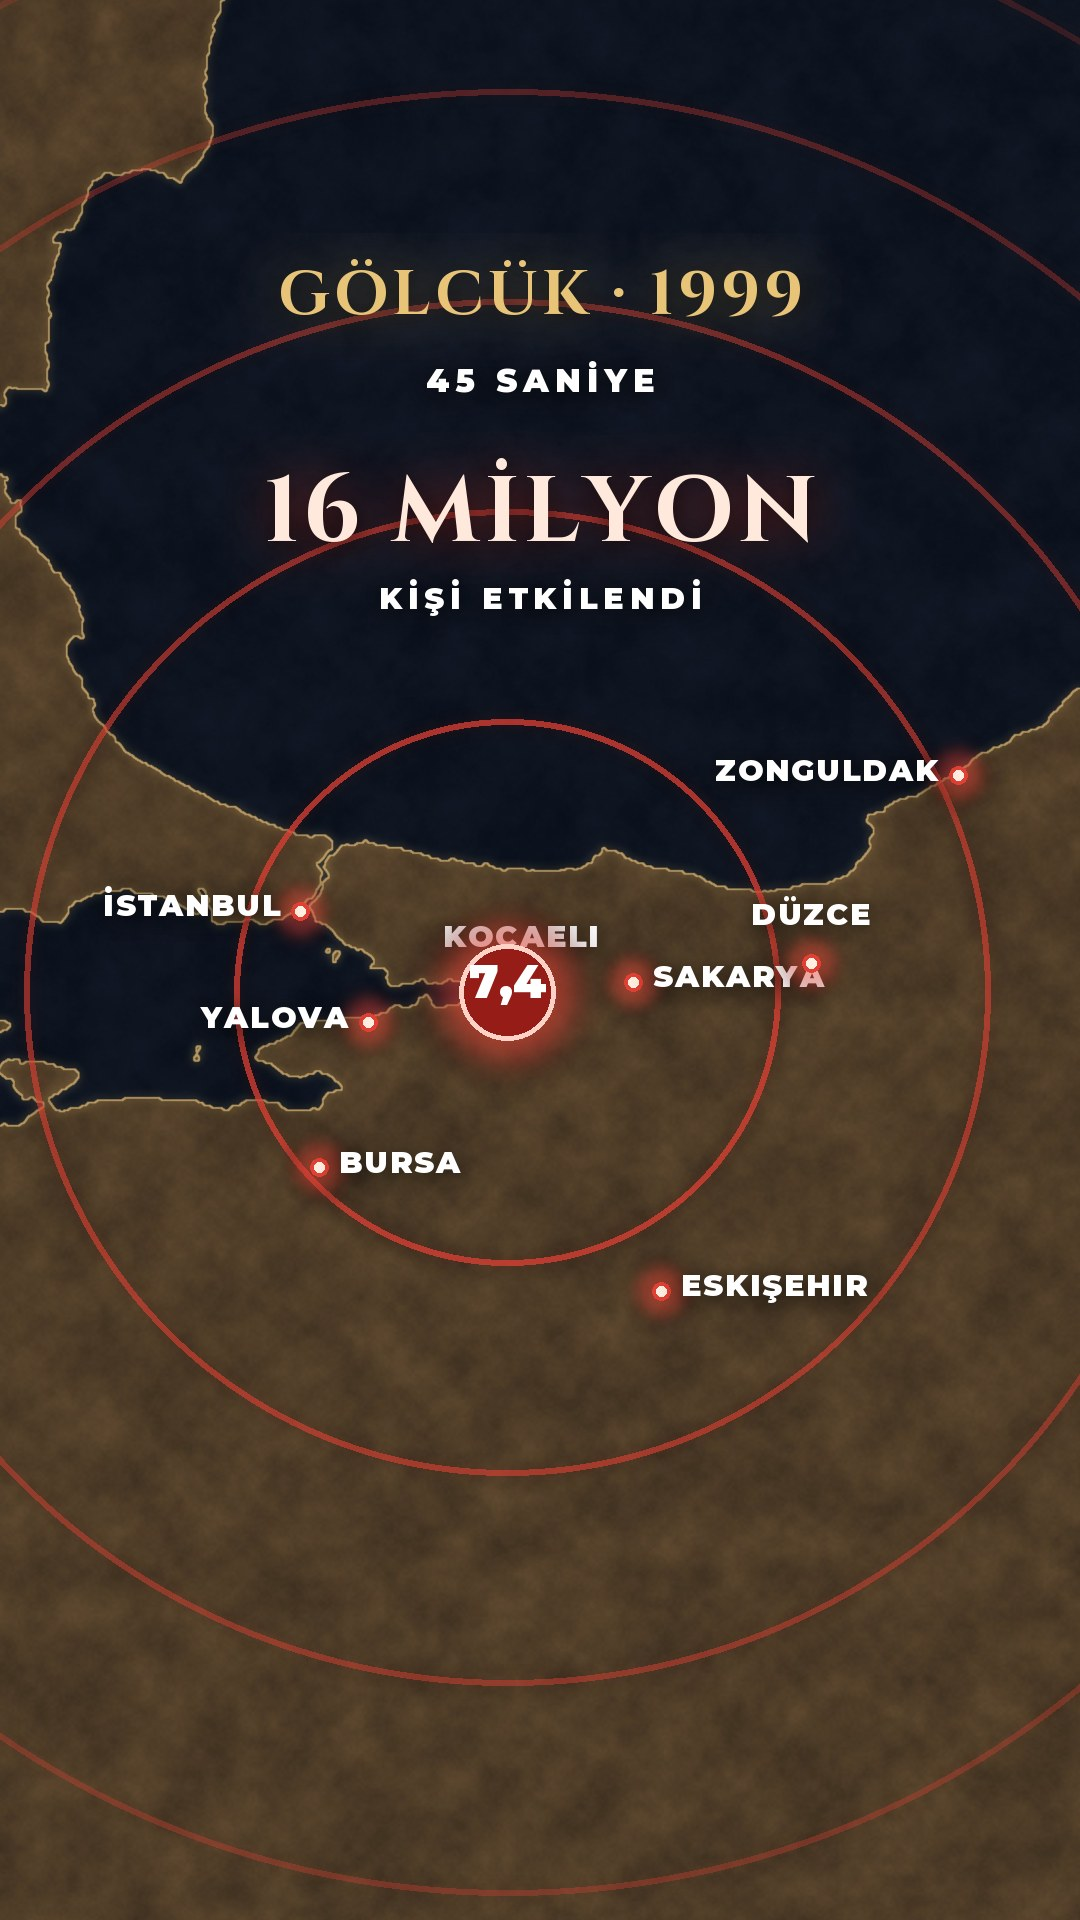
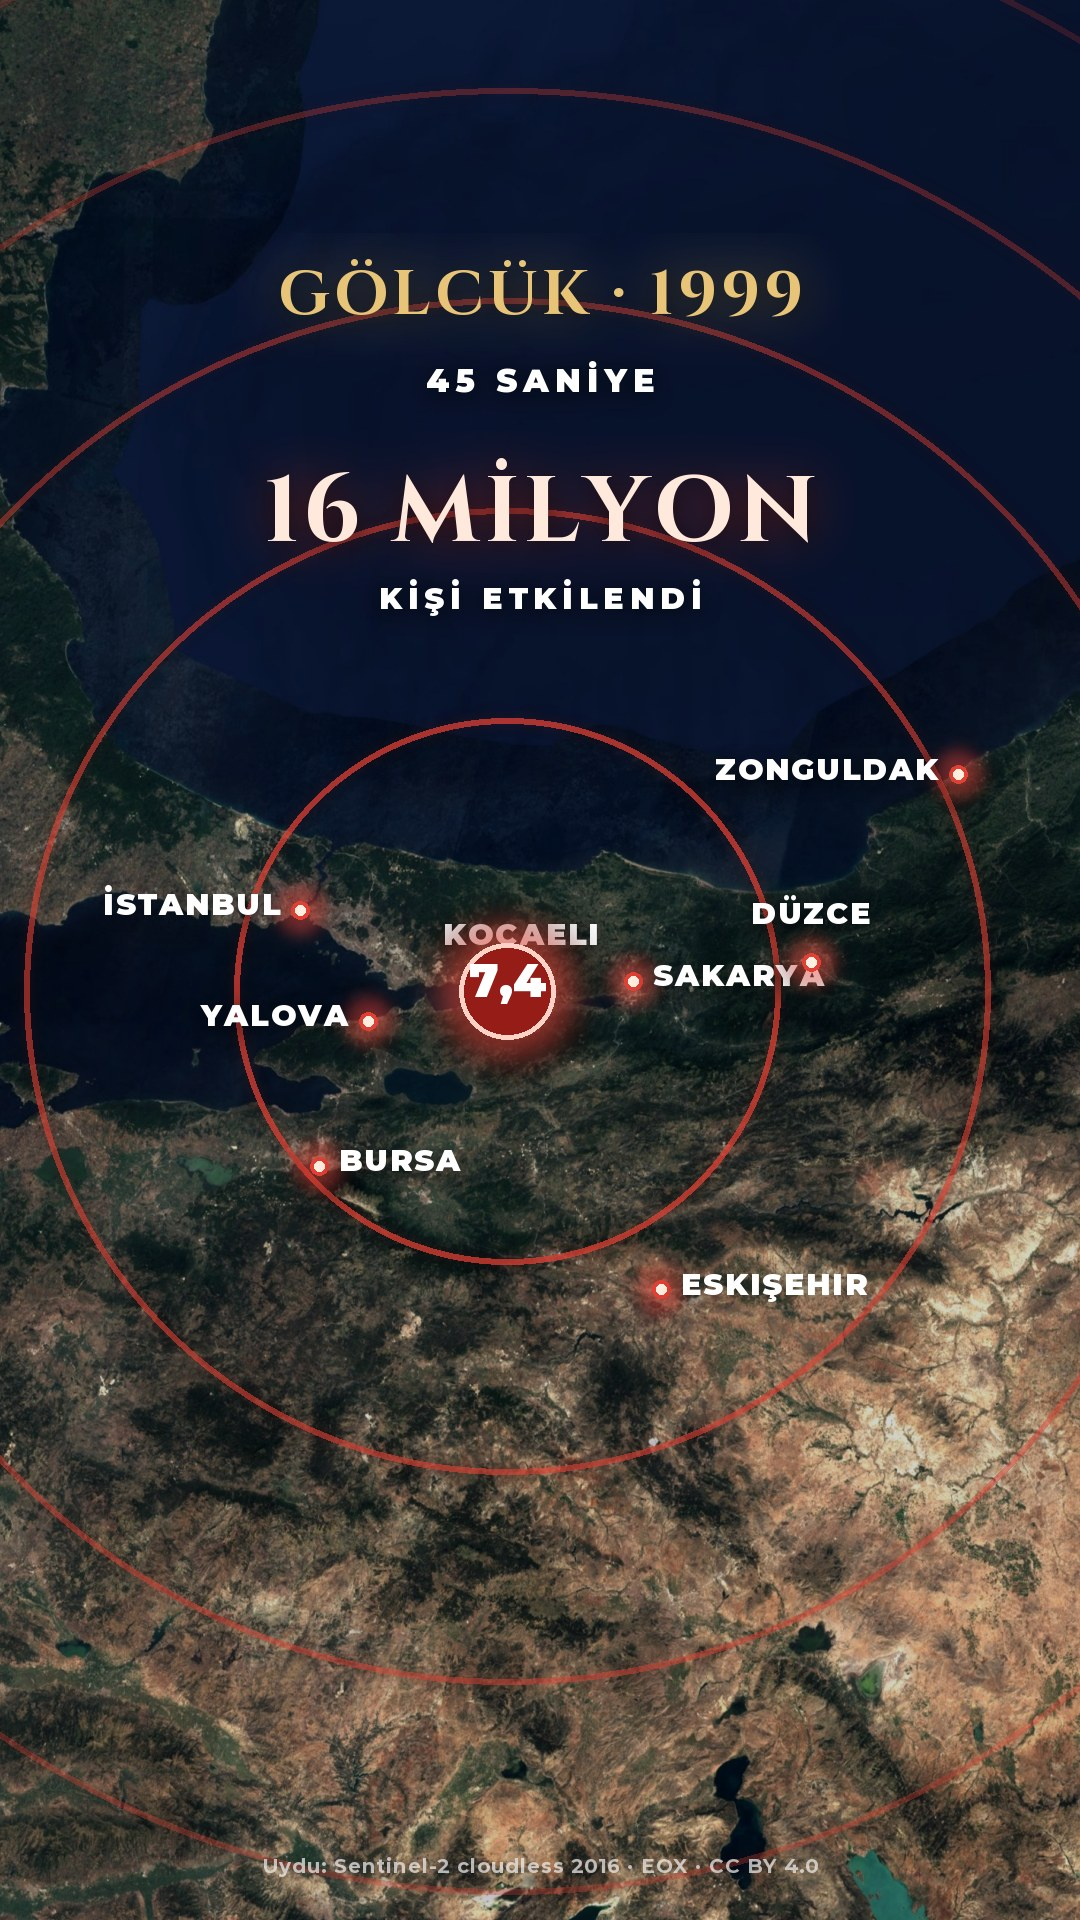
Deprem haritaları uydu altlığıyla (Sentinel-2 cloudless 2016, İstanbul için yüksek çözünürlük), atıf satırı
Claude-Session: https://claude.ai/code/session_01PhuuS3b2NQYC7FvgNf5iHz

diff --git a/engine/deprem.py b/engine/deprem.py
@@ -33,24 +33,48 @@ def yuzde(v): return f"{v:.1f}".replace(".", ",")
 
 
 class Harita:
-    _base = None
+    """Altlık: varsa uydu (Sentinel-2 cloudless 2016 + yakın plan için yüksek çözünürlüklü İstanbul), yoksa çizim altlık."""
+    _cache = {}
+    ATIF = "Uydu: Sentinel-2 cloudless 2016 · EOX · CC BY 4.0"
 
-    def __init__(self):
-        self.R = json.load(open(os.path.join(MAPDIR, "regions.json")))["marmara"]
-        if Harita._base is None: Harita._base = Image.open(os.path.join(MAPDIR, "basemap_marmara.jpg")).convert("RGB")
-        self.base = Harita._base; self.C = math.cos(math.radians(self.R["clat"]))
+    def __init__(self, stil="uydu"):
+        R = json.load(open(os.path.join(MAPDIR, "regions.json")))["marmara"]
+        self.C = math.cos(math.radians(R["clat"])); self.katman = []
+        uj = os.path.join(MAPDIR, "uydu.json")
+        if stil == "uydu" and os.path.exists(uj):
+            for ad, (lon0, lon1, lat0, lat1, k) in json.load(open(uj))["bolgeler"].items():
+                self.katman.append((self._yukle(f"uydu_{ad}.jpg", True), (lon0, lon1, lat0, lat1)))
+            self.katman.sort(key=lambda k: (k[1][1] - k[1][0]))  # en dar (en net) önce
+            self.uydu = True
+        else:
+            Rr = R; Wb = (Rr["lon1"] - Rr["lon0"]) * Rr["k"] * self.C
+            self.katman.append((self._yukle("basemap_marmara.jpg", False), (Rr["lon0"], Rr["lon1"], Rr["lat0"], Rr["lat1"])))
+            self.uydu = False
 
-    def P(self, lon, lat): return ((lon - self.R["lon0"]) * self.R["k"] * self.C, (self.R["lat1"] - lat) * self.R["k"])
+    def _yukle(self, ad, uydu):
+        if ad not in Harita._cache:
+            im = Image.open(os.path.join(MAPDIR, ad)).convert("RGB")
+            if uydu:  # videonun karanlık, sinematik tonuna uydur: biraz koyu, hafif soğuk gölgeler, az doygun
+                a = np.asarray(im).astype(np.float32) / 255.
+                lum = a @ np.array([.299, .587, .114], np.float32)
+                a = lum[..., None] + (a - lum[..., None]) * .85
+                a = np.clip((a - .04) * 1.12, 0, 1) ** 1.12 * .82
+                a[..., 2] = a[..., 2] * 1.04 + .015
+                im = Image.fromarray((np.clip(a, 0, 1) * 255).astype(np.uint8))
+            Harita._cache[ad] = im
+        return Harita._cache[ad]
 
     def kare(self, cam):
-        lon, lat, wdeg = cam; cw = wdeg * self.R["k"] * self.C; ch = cw * H / W
-        if ch > self.base.height: ch = self.base.height; cw = ch * W / H
-        if cw > self.base.width: cw = self.base.width; ch = cw * H / W
-        cx, cy = self.P(lon, lat)
-        x0 = min(max(cx - cw / 2, 0), self.base.width - cw); y0 = min(max(cy - ch / 2, 0), self.base.height - ch)
-        fr = self.base.resize((W, H), Image.BILINEAR, box=(x0, y0, x0 + cw, y0 + ch)).convert("RGBA"); s = W / cw
-        def to(lon, lat):
-            X, Y = self.P(lon, lat); return ((X - x0) * s, (Y - y0) * s)
+        lon, lat, wdeg = cam; hdeg = wdeg * H / W * self.C  # ekrandaki enlem aralığı
+        b = (lon - wdeg / 2, lon + wdeg / 2, lat - hdeg / 2, lat + hdeg / 2)
+        img, (L0, L1, A0, A1) = next(((i, bb) for i, bb in self.katman if bb[0] <= b[0] and b[1] <= bb[1] and bb[2] <= b[2] and b[3] <= bb[3]), self.katman[-1])
+        sx, sy = img.width / (L1 - L0), img.height / (A1 - A0)
+        x0, x1 = (b[0] - L0) * sx, (b[1] - L0) * sx; y0, y1 = (A1 - b[3]) * sy, (A1 - b[2]) * sy
+        dx = min(0, x0) or max(0, x1 - img.width); dy = min(0, y0) or max(0, y1 - img.height)
+        x0, x1, y0, y1 = x0 - dx, x1 - dx, y0 - dy, y1 - dy
+        fr = img.resize((W, H), Image.BILINEAR, box=(max(0, x0), max(0, y0), min(img.width, x1), min(img.height, y1))).convert("RGBA")
+        lonL = L0 + x0 / sx; latT = A1 - y0 / sy; s = W / (x1 - x0)
+        def to(lo, la): return ((lo - lonL) * sx * s, (latT - la) * sy * s)
         return fr, to, s
 
 
@@ -97,10 +121,13 @@ def baslik(fr, ust, alt, lt, out=1.0):
 
 class DepremAnim:
     def __init__(self, proje_dir, cfg):
-        self.c = cfg; self.h = Harita(); self._ilce = None
+        self.c = cfg; self.h = Harita(cfg.get("stil", "uydu")); self._ilce = None
 
     def frame(self, lt, dur):
-        return getattr(self, "_" + self.c["tur"])(lt, dur)
+        fr = getattr(self, "_" + self.c["tur"])(lt, dur)
+        if self.h.uydu and self.c["tur"] != "ilce_tablo":
+            put(fr, text(Harita.ATIF, "sans", 20, (230, 230, 230), spacing=1, shadow=True), W / 2, 1868, .75)
+        return fr
 
     # ── 1999: merkezden yayılan halkalar ──
     def _halka(self, lt, dur):
@@ -186,7 +213,7 @@ class DepremAnim:
             k = sira.index(ad) if ad in sira else 0; q = clamp((lt - 1.2 - k * 0.035) / 0.35)
             for poly in polys:
                 pts = [to(x, y) for x, y in poly[0]]
-                if v is not None and q > 0: df.polygon(pts, fill=renk((v - lo) / (hi - lo)) + (int(205 * q),))
+                if v is not None and q > 0: df.polygon(pts, fill=renk((v - lo) / (hi - lo)) + (int((150 if self.h.uydu else 205) * q),))
                 de.line(pts + [pts[0]], fill=(255, 236, 200, int(170 * clamp((lt - .5) / .6))), width=2)
         fr.alpha_composite(fill); fr.alpha_composite(edge)
         n = c.get("rozet", 5); ilce = {a: m for a, _, m in self._ilce_veri()}
